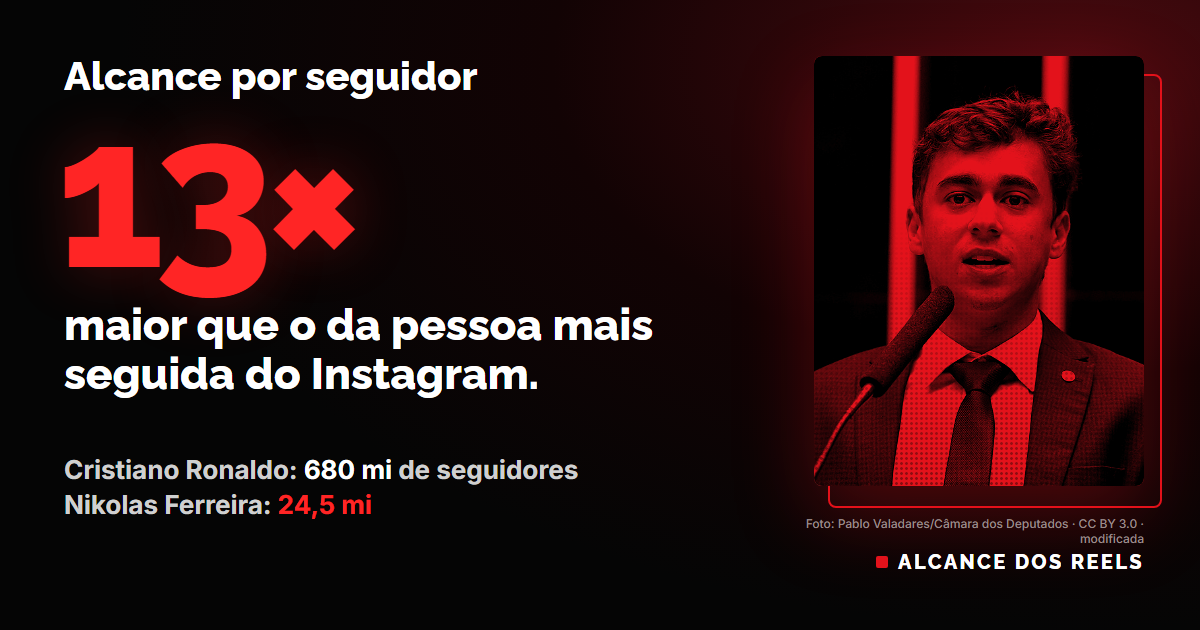
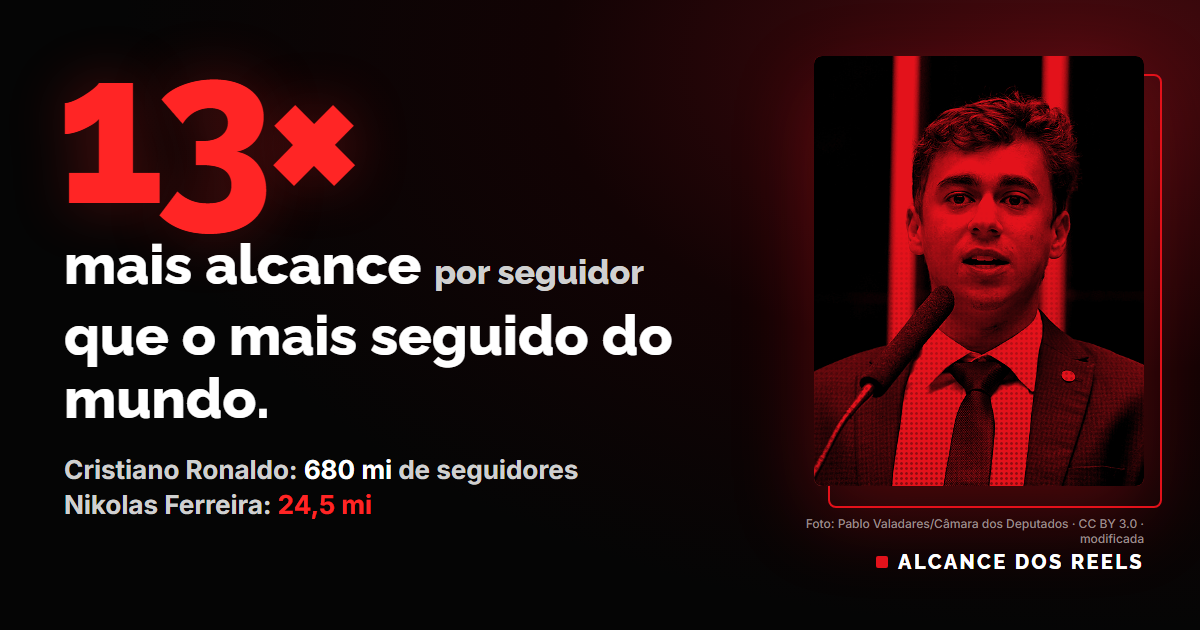
Topo: "13× mais alcance por seguidor que o mais seguido do mundo"
Manchete mais curta, mantendo "por seguidor" na frase. Subtítulo
identifica Cristiano Ronaldo como a pessoa mais seguida do Instagram.
Meta tags e imagem de compartilhamento atualizadas.

Changed region(s): [[0.0308, 0.0905, 0.555, 0.6635]]

diff --git a/landing/index.html b/landing/index.html
@@ -4,17 +4,17 @@
   <meta charset="utf-8">
   <meta name="viewport" content="width=device-width, initial-scale=1">
   <title>Alcance dos Reels</title>
-  <meta name="description" content="Nikolas Ferreira tem 24,5 milhões de seguidores; Cristiano Ronaldo, 680 milhões. Por seguidor, os vídeos do Nikolas alcançam 13× mais. Análise independente de dados públicos do Instagram.">
+  <meta name="description" content="Cristiano Ronaldo, a pessoa mais seguida do Instagram, tem 680 milhões de seguidores; Nikolas Ferreira, 24,5 milhões. Por seguidor, os vídeos do Nikolas alcançam 13× mais. Análise independente de dados públicos do Instagram.">
   <meta property="og:type" content="article">
   <meta property="og:locale" content="pt_BR">
-  <meta property="og:title" content="Alcance por seguidor 13× maior que o da pessoa mais seguida do Instagram.">
-  <meta property="og:description" content="Comparamos os reels de Nikolas com os de Cristiano, Messi, Neymar, Anitta, Virginia e outros políticos. Análise independente de dados públicos do Instagram.">
+  <meta property="og:title" content="13× mais alcance por seguidor que o mais seguido do mundo.">
+  <meta property="og:description" content="Cristiano Ronaldo, a pessoa mais seguida do Instagram, tem 680 milhões de seguidores; Nikolas Ferreira, 24,5 milhões. Por seguidor, os vídeos do Nikolas alcançam 13× mais. Análise independente de dados públicos do Instagram.">
   <meta property="og:image" content="img/og.png">
   <meta property="og:image:width" content="1200">
   <meta property="og:image:height" content="630">
-  <meta property="og:image:alt" content="Alcance por seguidor 13× maior que o da pessoa mais seguida do Instagram.">
+  <meta property="og:image:alt" content="13× mais alcance por seguidor que o mais seguido do mundo.">
   <meta name="twitter:card" content="summary_large_image">
-  <meta name="twitter:title" content="Alcance por seguidor 13× maior que o da pessoa mais seguida do Instagram.">
+  <meta name="twitter:title" content="13× mais alcance por seguidor que o mais seguido do mundo.">
   <meta name="twitter:description" content="Análise independente de dados públicos do Instagram.">
   <meta name="twitter:image" content="img/og.png">
   <meta name="color-scheme" content="light">

diff --git a/landing/app.js b/landing/app.js
@@ -48,11 +48,11 @@
   // Manchete: alcance por seguidor comparado à pessoa mais seguida do Instagram (Cristiano Ronaldo).
   const cr7 = R.perfis.find(p => p.perfil === 'cristiano' && p.comparavel);
   document.getElementById('titulo').innerHTML = cr7
-    ? `Alcance por seguidor <em class="titulo-x">${Math.floor(nik.medianaViewsPorSeguidor / cr7.medianaViewsPorSeguidor)}×</em> maior que o da pessoa mais seguida do Instagram.`
+    ? `<em class="titulo-x">${Math.floor(nik.medianaViewsPorSeguidor / cr7.medianaViewsPorSeguidor)}×</em> mais alcance <span class="titulo-menor">por seguidor</span> que o mais seguido do mundo.`
     : `Como <em>${fmtMi(nik.seguidores)}</em> de seguidores viram <em>${fmtMi(nik.medianaViews)}</em> de views por reel?`;
   const milhoesExt = n => (n / 1e6).toLocaleString('pt-BR', { maximumFractionDigits: n >= 1e8 ? 0 : 1 }) + ' milhões';
   document.getElementById('heroSub').innerHTML = (cr7
-    ? `<span class="hero-sub-destaque">Cristiano Ronaldo, ${milhoesExt(cr7.seguidores)} de seguidores · Nikolas Ferreira, ${milhoesExt(nik.seguidores)}</span>`
+    ? `<span class="hero-sub-destaque">Cristiano Ronaldo, a pessoa mais seguida do Instagram: ${milhoesExt(cr7.seguidores)} de seguidores · Nikolas Ferreira: ${milhoesExt(nik.seguidores)}</span>`
     : '') +
     `Views de um vídeo típico ÷ seguidores · ${comp.length + R.perfis.filter(p => grupoDe(p) !== 'politicos' && p.comparavel).length} perfis comparados · coleta em ${new Date(R.geradoEm).toLocaleDateString('pt-BR', { day: 'numeric', month: 'long', year: 'numeric' })}`;
   const credito = document.getElementById('creditoFoto');

diff --git a/landing/style.css b/landing/style.css
@@ -410,3 +410,4 @@ code { font-size: 13px; background: var(--primary-soft); color: var(--primary-da
 /* Manchete do topo: multiplicador gigante e subtítulo com os dois números de seguidores */
 .hero-escuro h1 .titulo-x { display: inline-block; font-size: 1.9em; line-height: .85; color: #ff2525; text-shadow: 0 0 40px rgba(255, 37, 37, .35); letter-spacing: -.04em; vertical-align: -.08em; }
 .hero-sub .hero-sub-destaque { display: block; margin-bottom: 6px; font-size: 1.15em; font-weight: 700; color: #fff; }
+.hero-escuro h1 .titulo-menor { font-size: .62em; color: #d0d0d0; font-weight: 800; white-space: nowrap; }
